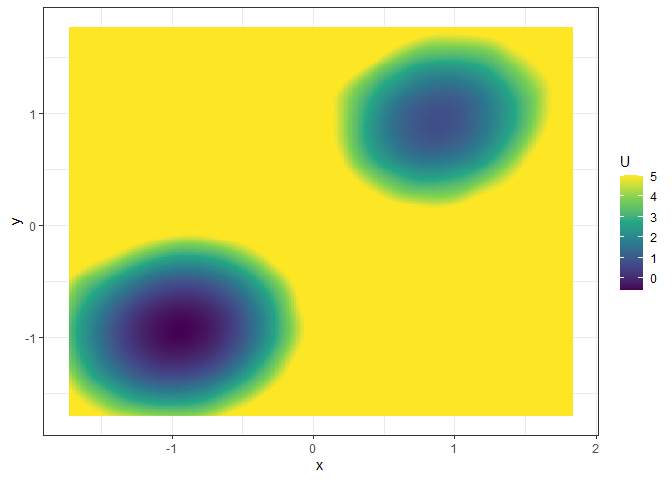
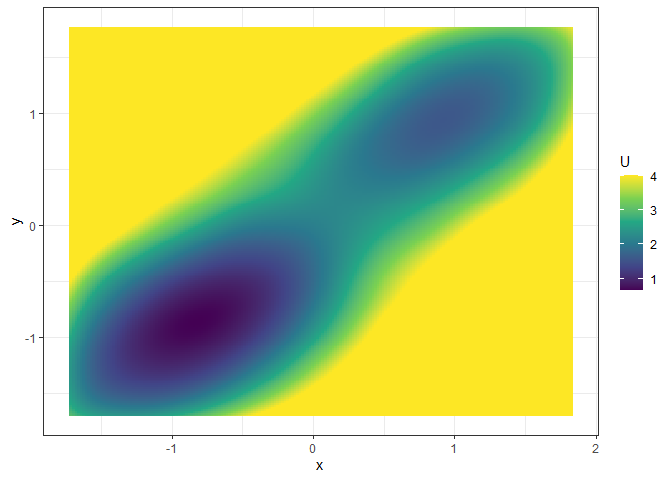
23.2.6.1
Improve documentation; add github check workflow; add cran-comments

diff --git a/README.md b/README.md
@@ -8,17 +8,19 @@
 [![CRAN_Status_Badge](https://www.r-pkg.org/badges/version/fitlandr)](https://cran.r-project.org/package=fitlandr)
 ![](https://img.shields.io/badge/lifecycle-experimental-orange.svg)
 [![](https://cranlogs.r-pkg.org/badges/fitlandr)](https://cran.r-project.org/package=fitlandr)
+[![R-CMD-check](https://github.com/Sciurus365/fitlandr/actions/workflows/R-CMD-check.yaml/badge.svg)](https://github.com/Sciurus365/fitlandr/actions/workflows/R-CMD-check.yaml)
 <!-- badges: end -->
 
 A toolbox for estimating vector fields from intensive longitudinal data,
 and construct potential landscapes thereafter. The vector fields can be
-estimated with two nonparametric methods: the Sparse Vector Field
-Consensus (SparseVFC) algorithm by Ma et al. (2013)
-<doi:10.1016/j.patcog.2013.05.017> and the Multivariate Vector Field
+estimated with two nonparametric methods: the Multivariate Vector Field
 Kernel Estimator (MVKE) by Bandi & Moloche (2018)
-<doi:10.1017/S0266466617000305>. The potential landscapes are
-constructed with a simulation-based approach with the `simlandr`
-package.
+<doi:10.1017/S0266466617000305> and the Sparse Vector Field Consensus
+(SparseVFC) algorithm by Ma et al. (2013)
+<doi:10.1016/j.patcog.2013.05.017>. The potential landscapes can be
+constructed with a simulation-based approach with the simlandr package
+(Cui et al., 2021) <doi:10.31234/osf.io/pzva3>, or the Bhattacharya et
+al. (2011) method for path integration <doi:10.1186/1752-0509-5-85>.
 
 ## Installation
 
@@ -47,24 +49,13 @@ ggplot(data = single_output_grad %>% as_tibble()) +
 
 <img src="man/figures/README-unnamed-chunk-2-1.png" width="100%" />
 
-Fit the vector field of the system with VFC (see `?SparseVFC::SparseVFC`
-for the explanations of parameters):
+Fit the vector field with MVKE (see `?MVKE` for the explanations of
+parameters):
 
 ``` r
 library(fitlandr)
-v1 <- fit_2d_vf(single_output_grad, x = "x", y = "y", method = "VFC", silent = FALSE, beta = 2)
-#> Start mismatch removal...
-#> iterate: 1th, gamma: 0.900000, the energy change rate: 1.003978, sigma2=0.131801
-#> iterate: 2th, gamma: 0.929648, the energy change rate: 0.390302, sigma2=0.047712
-#> iterate: 3th, gamma: 0.929648, the energy change rate: 0.057607, sigma2=0.036509
-#> iterate: 4th, gamma: 0.924623, the energy change rate: 0.010792, sigma2=0.033713
-#> iterate: 5th, gamma: 0.924623, the energy change rate: 0.001748, sigma2=0.032990
-#> iterate: 6th, gamma: 0.924623, the energy change rate: 0.000375, sigma2=0.032837
-#> iterate: 7th, gamma: 0.924623, the energy change rate: 0.000084, sigma2=0.032802
-#> iterate: 8th, gamma: 0.924623, the energy change rate: 0.000020, sigma2=0.032794
-#> iterate: 9th, gamma: 0.924623, the energy change rate: 0.000005, sigma2=0.032792
-#> Removing outliers succesfully completed.
-plot(v1)
+v2 <- fit_2d_vf(single_output_grad, x = "x", y = "y", method = "MVKE")
+plot(v2)
 ```
 
 <img src="man/figures/README-unnamed-chunk-3-1.png" width="100%" />
@@ -74,41 +65,13 @@ Fit the potential landscape:
 ``` r
 future::plan("multisession")
 set.seed(1614)
-l1 <- fit_3d_vfld(v1, .sim_vf_options = sim_vf_options(chains = 16, stepsize = 1, forbid_overflow = TRUE), .simlandr_options = simlandr_options(adjust = 5, Umax = 5))
-#> ℹ Simulating the model✔ Simulating the model [19s]
-#> ℹ Constructing the landscape✔ Constructing the landscape [2s]
-plot(l1, 2)
-```
-
-<img src="man/figures/README-unnamed-chunk-4-1.png" width="100%" />
-
-``` r
-# equivalent:
-# s1 <- sim_vf(v1, chains = 16, stepsize = 1, forbid_overflow = TRUE)
-# l1 <- simlandr::make_3d_static(s1, x = "x", y = "y", lims = v1$lims, adjust = 5, Umax = 5)
-```
-
-Fit the vector field with MVKE (see `?MVKE` for the explanations of
-parameters):
-
-``` r
-v2 <- fit_2d_vf(single_output_grad, x = "x", y = "y", method = "MVKE")
-plot(v2)
-```
-
-<img src="man/figures/README-unnamed-chunk-5-1.png" width="100%" />
-
-Fit the potential landscape:
-
-``` r
-set.seed(1614)
 l2 <- fit_3d_vfld(v2, .sim_vf_options = sim_vf_options(chains = 16, stepsize = 1, forbid_overflow = TRUE), .simlandr_options = simlandr_options(adjust = 5, Umax = 4))
-#> ℹ Simulating the model✔ Simulating the model [19.4s]
-#> ℹ Constructing the landscape✔ Constructing the landscape [1s]
+#> ℹ Simulating the model✔ Simulating the model [24.4s]
+#> ℹ Constructing the landscape✔ Constructing the landscape [2.3s]
 plot(l2, 2)
 ```
 
-<img src="man/figures/README-unnamed-chunk-6-1.png" width="100%" />
+<img src="man/figures/README-unnamed-chunk-4-1.png" width="100%" />
 
 ``` r
 # equivalent:

diff --git a/cran-comments.md b/cran-comments.md
@@ -1,0 +1,9 @@
+* This is the first release of a new package.
+
+## Test environments
+
+* local R installation in Windows, R 4.2.2
+
+## R CMD check results
+
+0 errors | 0 warnings | 0 note
